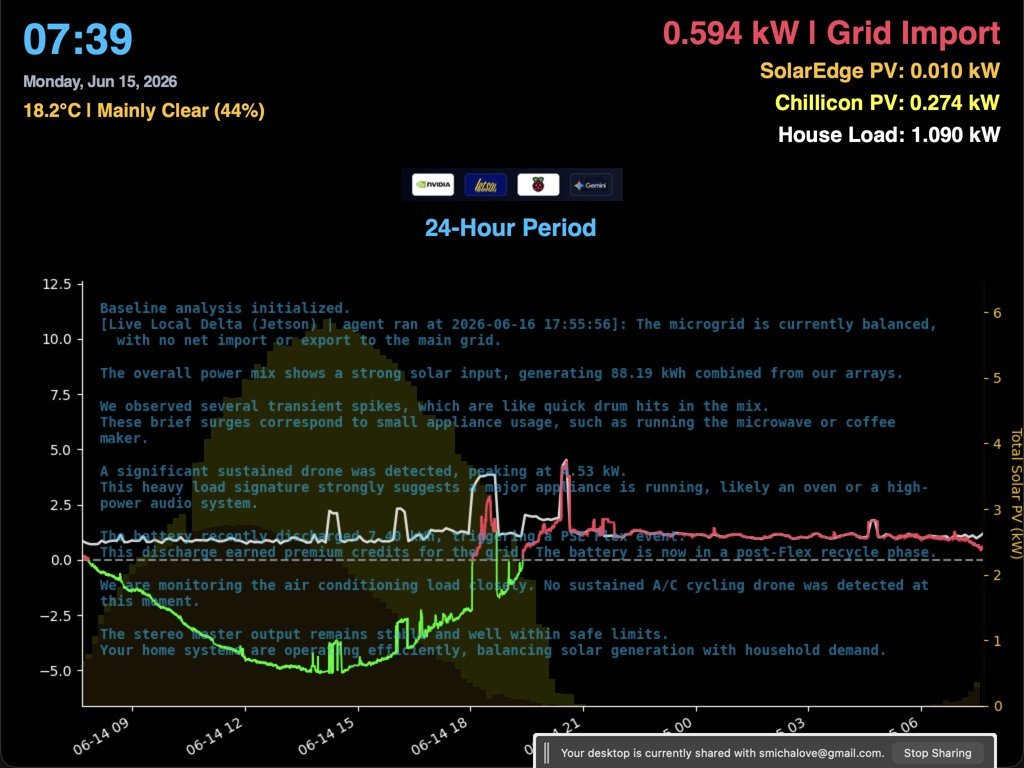
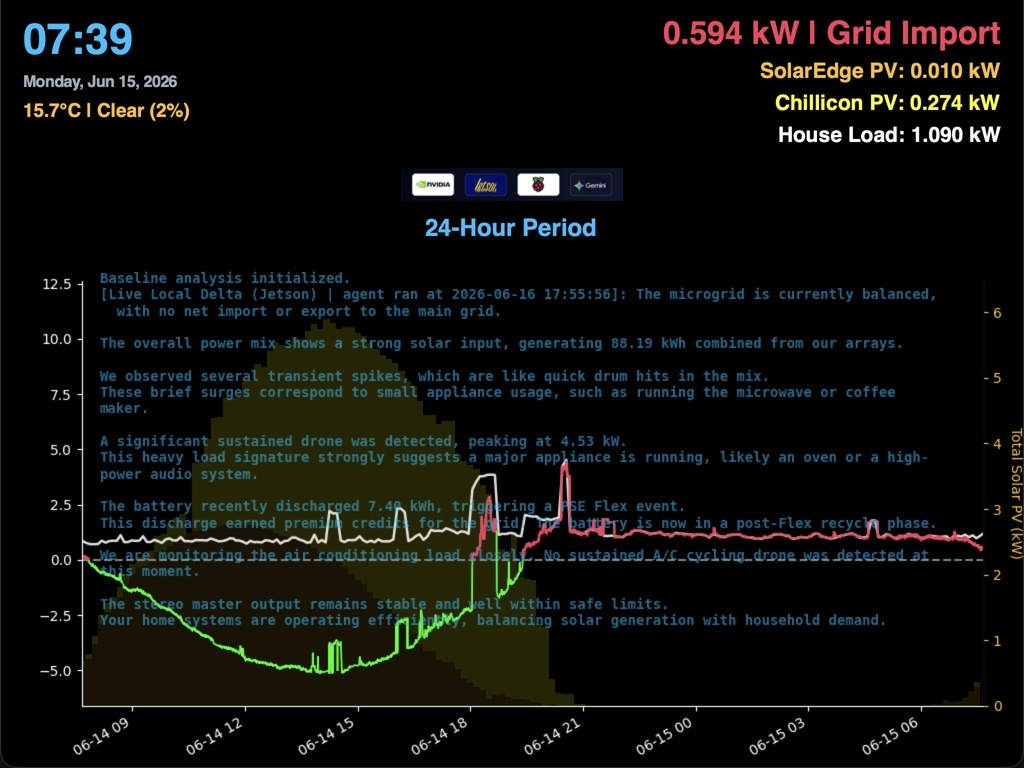
style: elevate slide summary text watermark coordinates to y=1.02

diff --git a/render_local_plot.py b/render_local_plot.py
@@ -300,12 +300,12 @@ class OfflineViewer(tk.Tk):
 
         # Text Objects
         self.summary_text_obj = self.ax.text(
-            0.02, 0.95, "Awaiting AI Analysis...", transform=self.ax.transAxes, ha='left', va='top',
+            0.02, 1.02, "Awaiting AI Analysis...", transform=self.ax.transAxes, ha='left', va='top',
             fontsize=config.SUMMARY_FONT_SIZE, color=config.SUMMARY_COLOR, alpha=config.SUMMARY_ALPHA,
             fontfamily='monospace', weight='bold', zorder=10
         )
         self.summary_text_obj_freq = self.ax_freq.text(
-            0.02, 0.95, "Awaiting Frequency Domain Analysis...", transform=self.ax_freq.transAxes, ha='left', va='top',
+            0.02, 1.02, "Awaiting Frequency Domain Analysis...", transform=self.ax_freq.transAxes, ha='left', va='top',
             fontsize=config.SUMMARY_FONT_SIZE, color=config.SUMMARY_COLOR, alpha=config.SUMMARY_ALPHA,
             fontfamily='monospace', weight='bold', zorder=10
         )
@@ -685,7 +685,7 @@ class OfflineViewer(tk.Tk):
                 self.ax_freq.set_ylim(0, max_amp * 1.85)
 
             self.summary_text_obj_freq = self.ax_freq.text(
-                0.02, 0.95, self.wrap_text(self.local_dft_text),
+                0.02, 1.02, self.wrap_text(self.local_dft_text),
                 transform=self.ax_freq.transAxes, ha='left', va='top',
                 fontsize=config.SUMMARY_FONT_SIZE, color=config.SUMMARY_COLOR, alpha=config.SUMMARY_ALPHA,
                 fontfamily='monospace', weight='bold', zorder=10

diff --git a/dashboard.py b/dashboard.py
@@ -740,13 +740,13 @@ class GridDashboard(tk.Tk):
 
         # Watermarks
         self.summary_text_obj = self.ax.text(
-            0.02, 0.95, "Awaiting AI Analysis...",
+            0.02, 1.02, "Awaiting AI Analysis...",
             transform=self.ax.transAxes, ha='left', va='top',
             fontsize=config.SUMMARY_FONT_SIZE, color=config.SUMMARY_COLOR, alpha=config.SUMMARY_ALPHA,
             fontfamily='monospace', weight='bold', zorder=10
         )
         self.summary_text_obj_freq = self.ax_freq.text(
-            0.02, 0.95, "Awaiting Frequency Domain Analysis...",
+            0.02, 1.02, "Awaiting Frequency Domain Analysis...",
             transform=self.ax_freq.transAxes, ha='left', va='top',
             fontsize=config.SUMMARY_FONT_SIZE, color=config.SUMMARY_COLOR, alpha=config.SUMMARY_ALPHA,
             fontfamily='monospace', weight='bold', zorder=10
@@ -1322,7 +1322,7 @@ class GridDashboard(tk.Tk):
 
             # Recreate watermark
             self.summary_text_obj_freq = self.ax_freq.text(
-                0.02, 0.95, self.wrap_text(self.local_dft_text),
+                0.02, 1.02, self.wrap_text(self.local_dft_text),
                 transform=self.ax_freq.transAxes, ha='left', va='top',
                 fontsize=config.SUMMARY_FONT_SIZE, color=config.SUMMARY_COLOR, alpha=config.SUMMARY_ALPHA,
                 fontfamily='monospace', weight='bold', zorder=10
